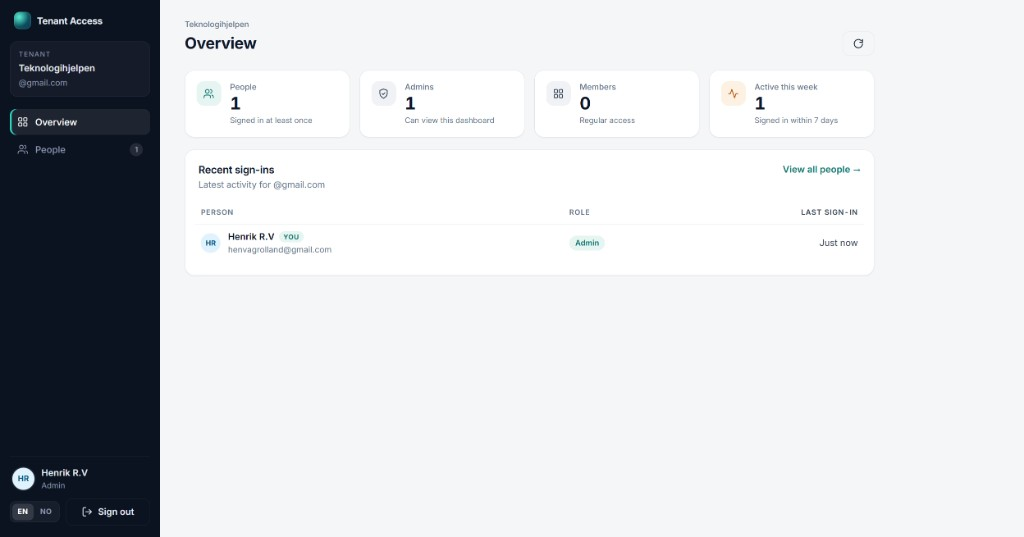
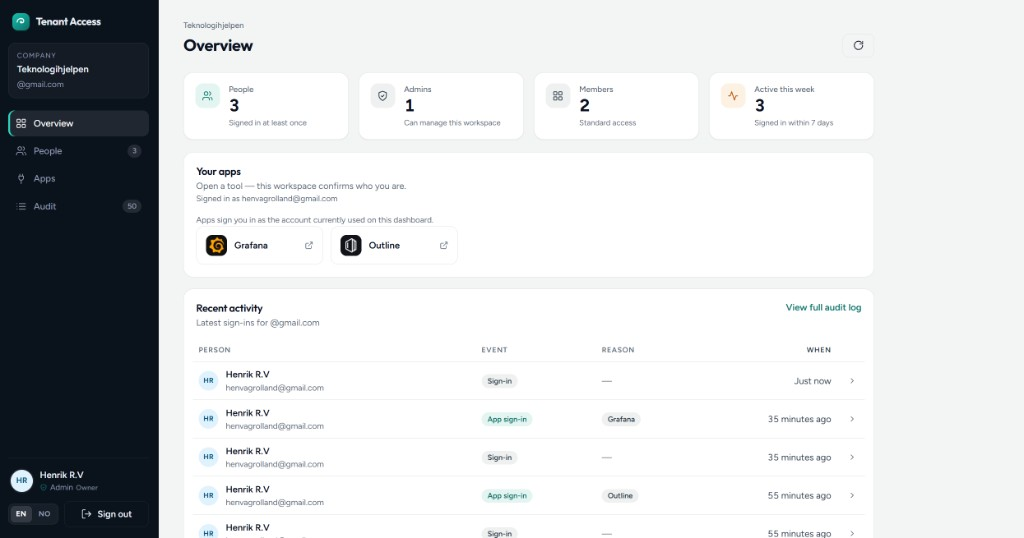
Add admin dashboard screenshots from live demo to the README.
Cover Overview, People invites, Apps issuer, and Audit alongside landing.

diff --git a/docs/screenshots/README.md b/docs/screenshots/README.md
@@ -4,13 +4,15 @@ Referenced from the root `README.md`.
 
 | File | What |
 | --- | --- |
-| `landing.png` | Signed-out landing, **EN**, Sign in tab |
-| `norwegian.png` | Same landing with language set to **NO** |
-| `grafana-login.png` | Grafana demo → **Sign in with Tenant Access** |
-| `overview.png` | *(optional)* Admin Overview — needs a signed-in session |
-| `people.png` | *(optional)* People with invite controls — needs a signed-in session |
+| `landing.png` | Signed-out landing, Sign in tab |
+| `overview.png` | Admin Overview — stats, Your apps, recent activity |
+| `people.png` | People directory + **Copy invite link** |
+| `apps.png` | Registered apps + OIDC issuer endpoints |
+| `audit.png` | Audit log (sign-ins and app sign-ins) |
+| `norwegian.png` | Landing with language set to **NO** (Playwright) |
+| `grafana-login.png` | Grafana → **Sign in with Tenant Access** (Playwright) |
 
-Refresh the public ones:
+Public landing / Grafana / NO can be refreshed with:
 
 ```bash
 npm install --no-save playwright@1.49.1
@@ -18,4 +20,4 @@ npx playwright install chromium
 node scripts/capture-screenshots.mjs
 ```
 
-Viewport: 1440×900. Blur emails before committing if you add authenticated shots.
+Admin shots are captured manually while signed in. Prefer blurring emails before a public push if you do not want addresses in the repo.

diff --git a/README.md b/README.md
@@ -19,15 +19,17 @@ I wanted a small, finished project that shows how I think about multi-tenant Saa
 
 ## Screenshots
 
-| Landing / sign-in (EN) | Landing (NO) |
+| Landing | Overview |
 | --- | --- |
-| ![Landing](docs/screenshots/landing.png) | ![Norwegian](docs/screenshots/norwegian.png) |
+| ![Landing](docs/screenshots/landing.png) | ![Overview](docs/screenshots/overview.png) |
 
-| Grafana SSO | |
+| People (invite link) | Apps + OIDC issuer |
 | --- | --- |
-| ![Grafana](docs/screenshots/grafana-login.png) | Sign in to Grafana *through* Tenant Access |
+| ![People](docs/screenshots/people.png) | ![Apps](docs/screenshots/apps.png) |
 
-Public shots are refreshed with Playwright (`scripts/capture-screenshots.mjs`). Admin Overview / People still need a signed-in session — add `overview.png` / `people.png` when you have one.
+| Audit | Grafana SSO / Norwegian |
+| --- | --- |
+| ![Audit](docs/screenshots/audit.png) | ![Grafana](docs/screenshots/grafana-login.png) ![NO](docs/screenshots/norwegian.png) |
 
 ## Try it
 
